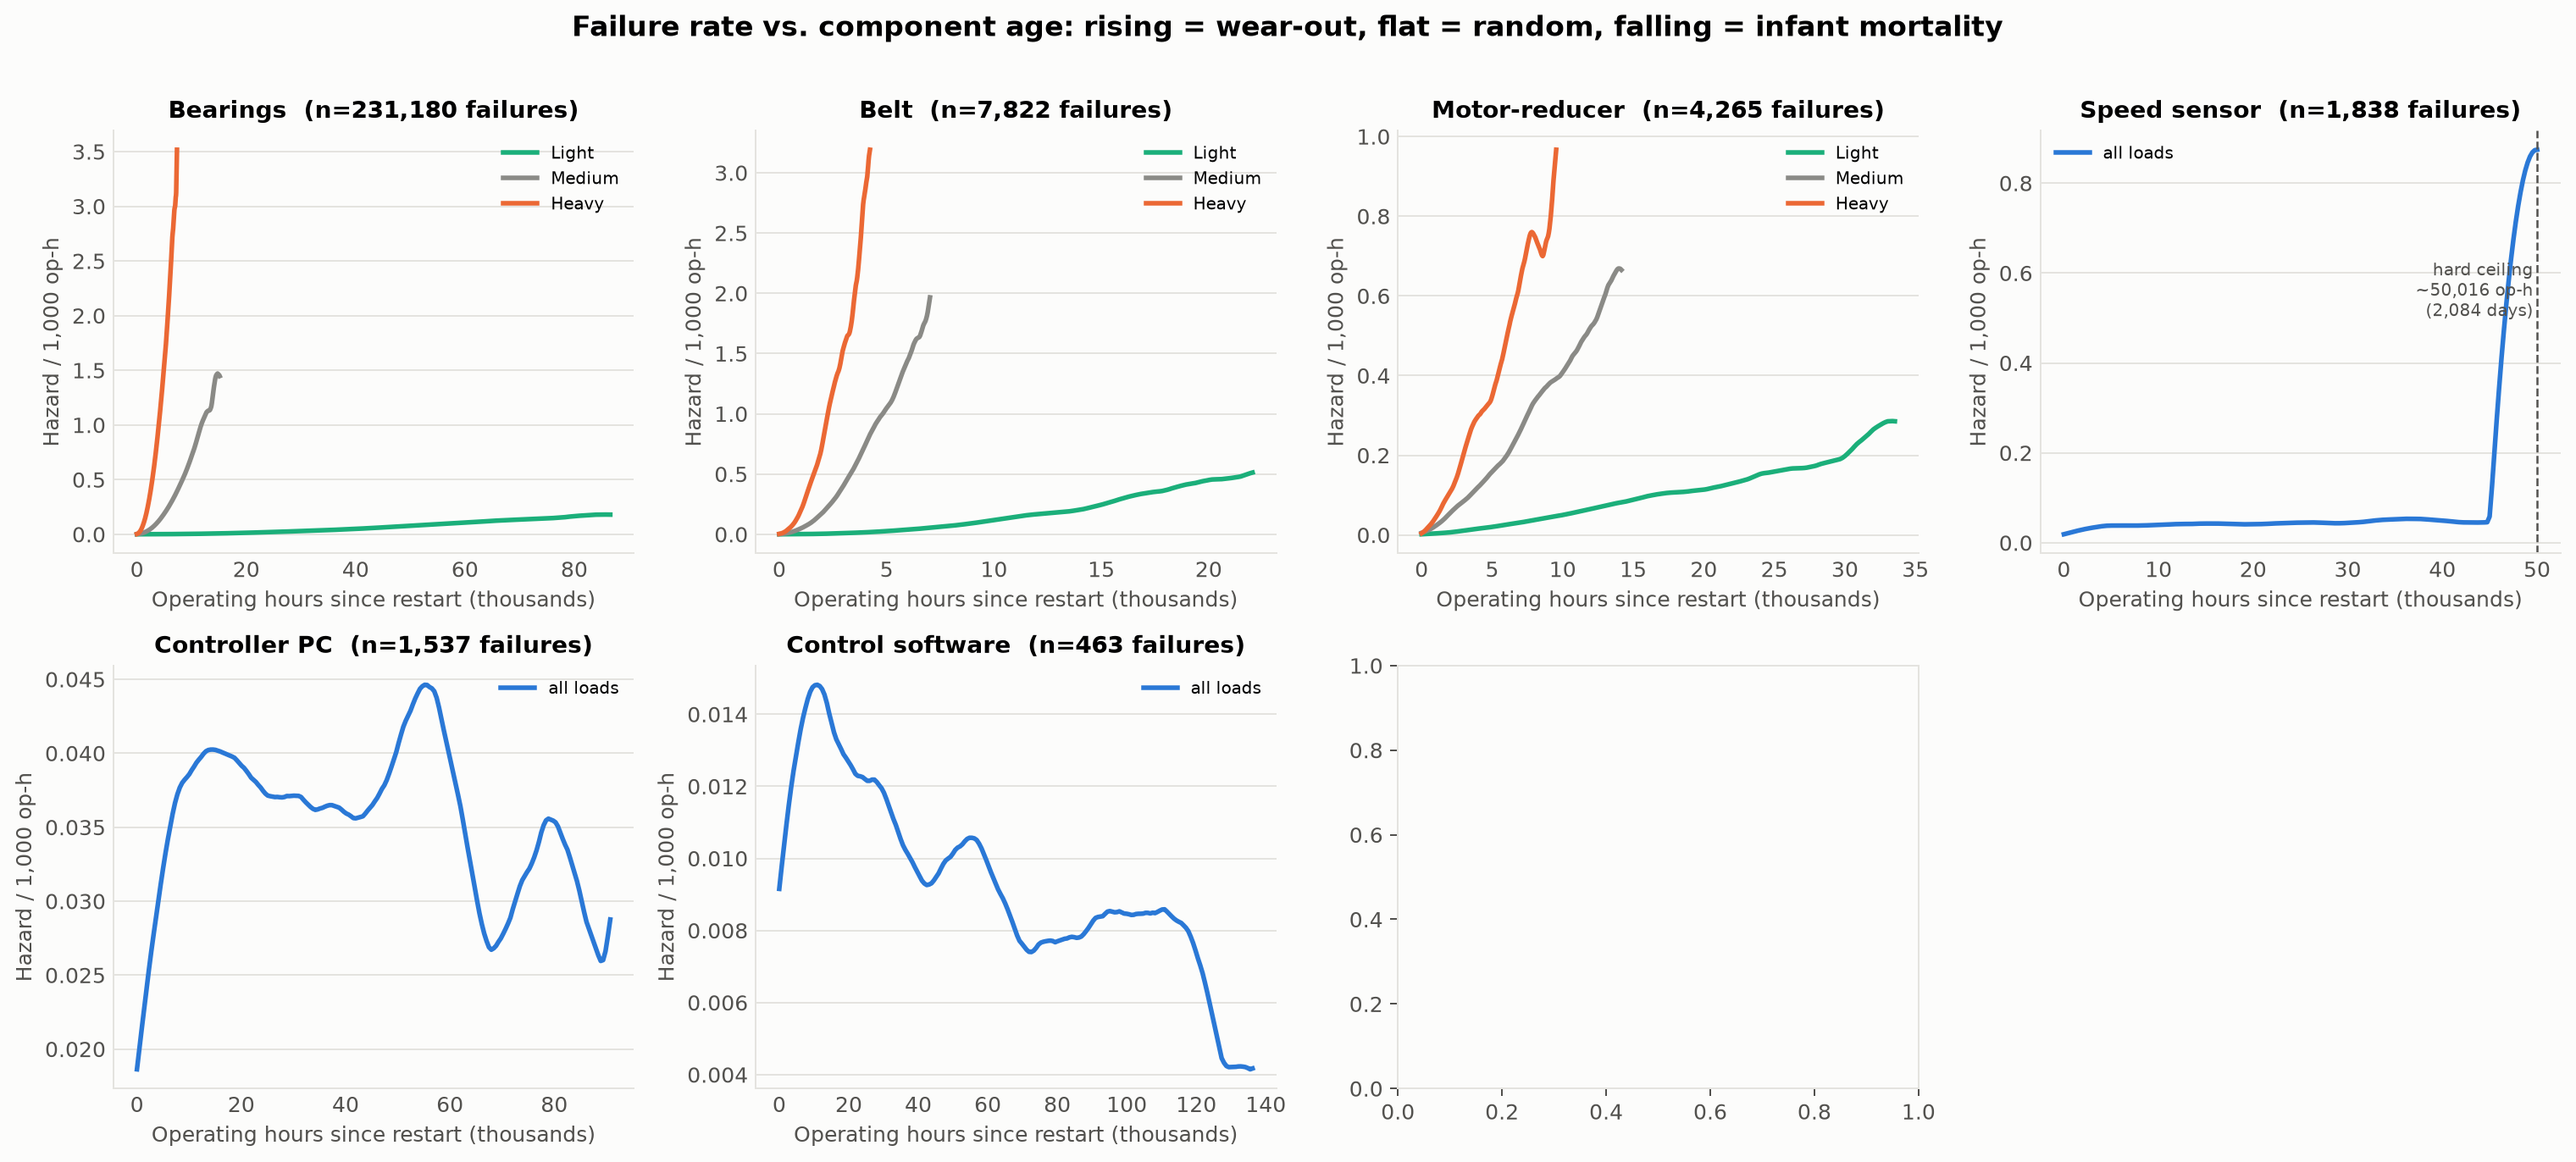
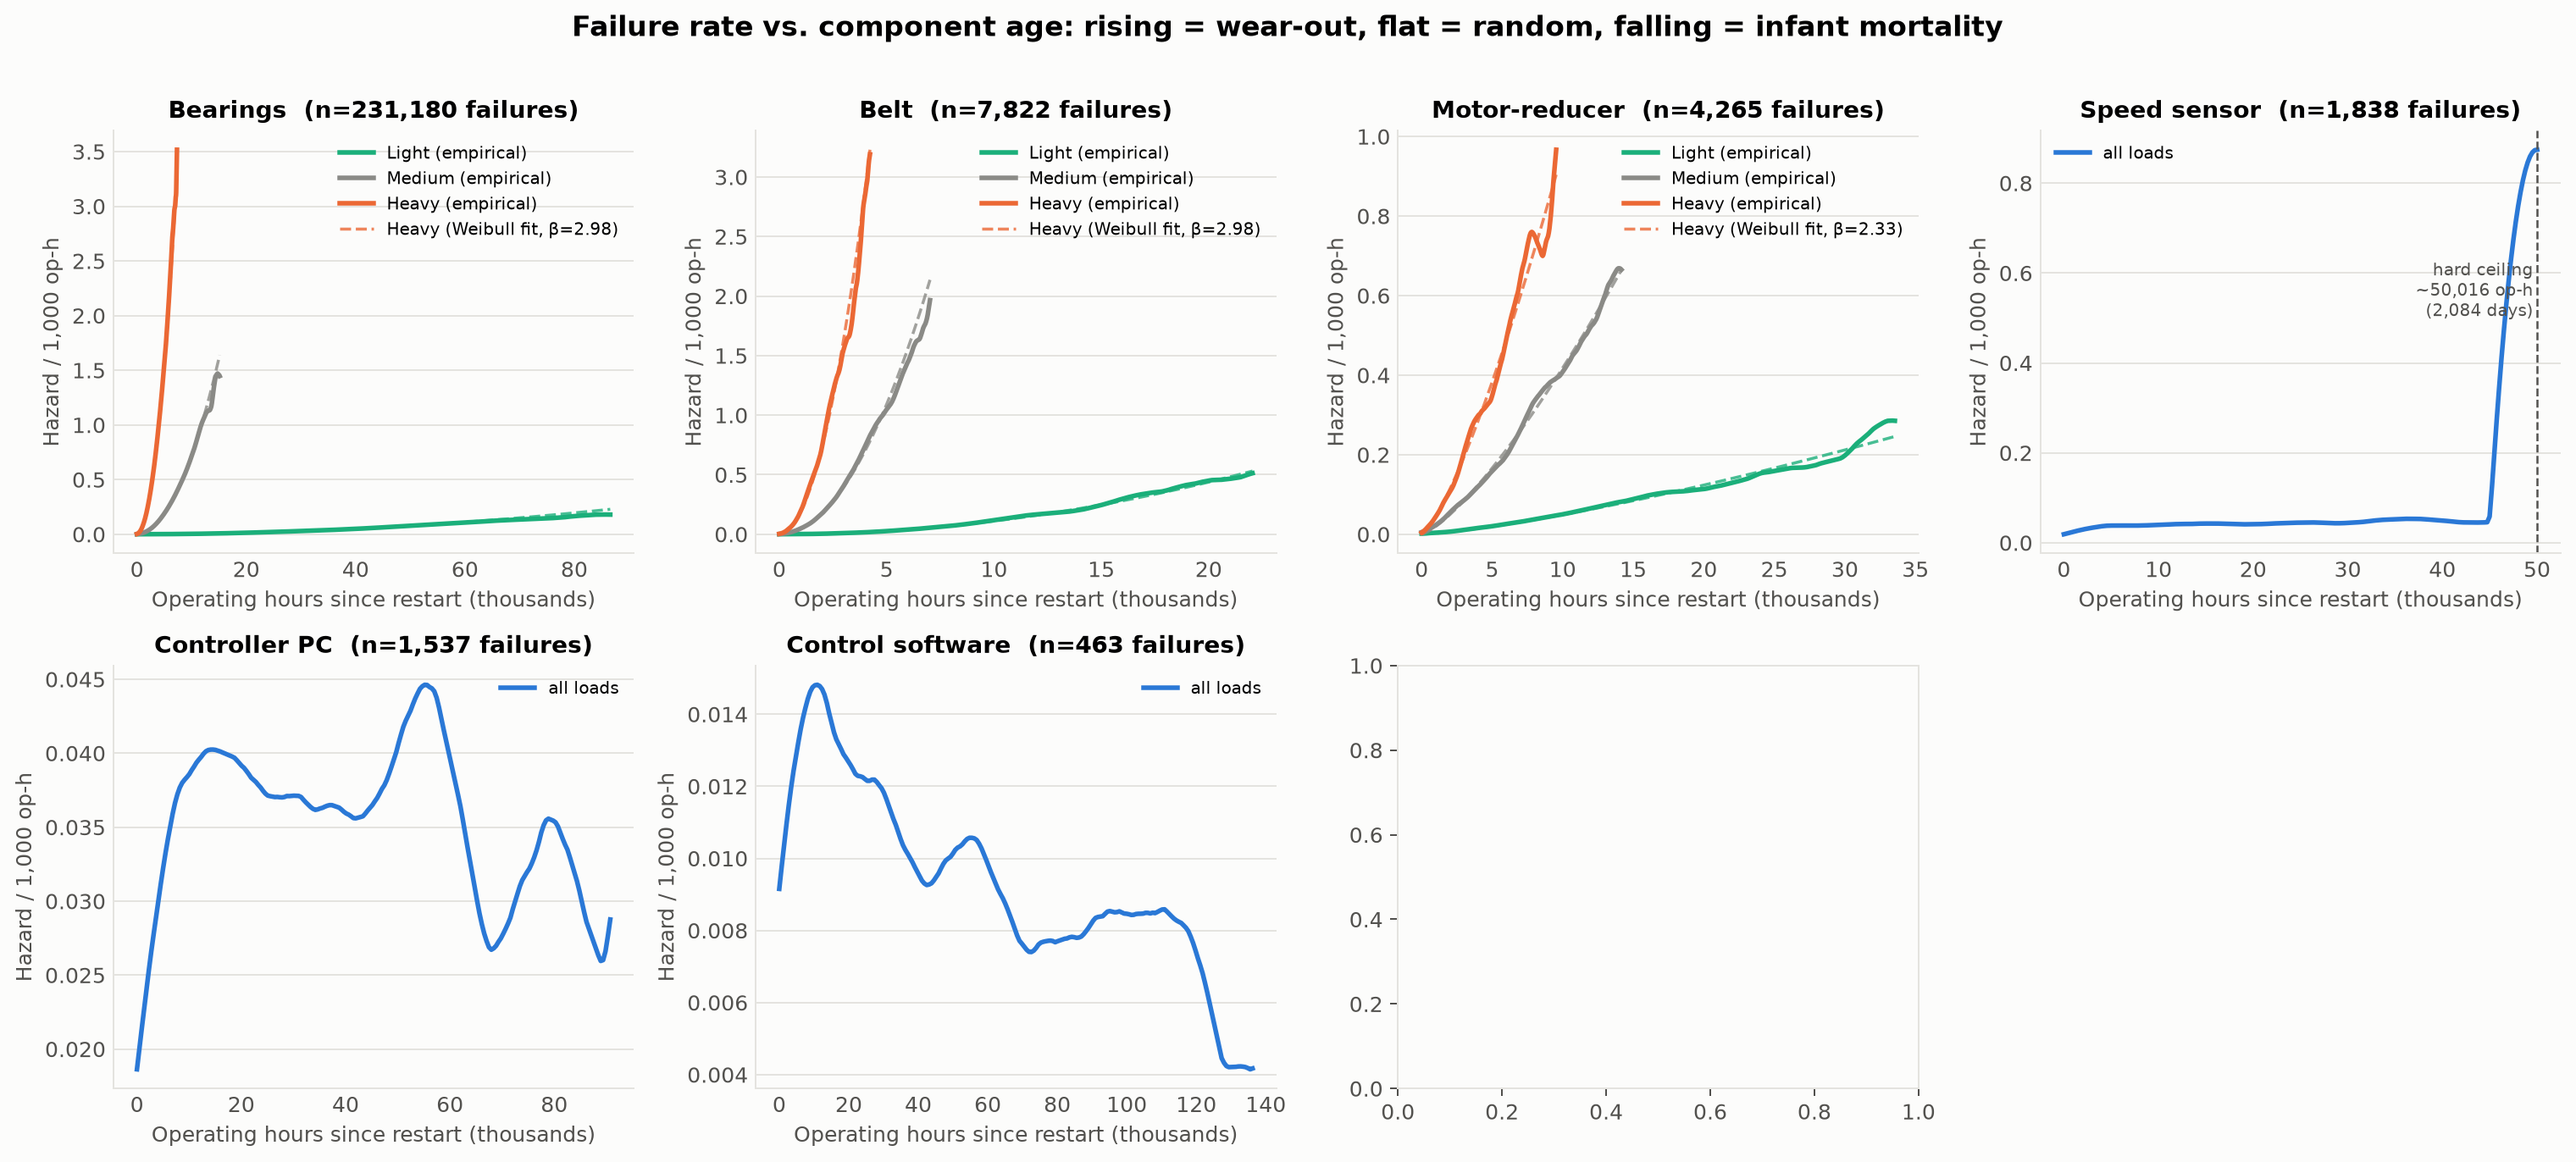
Overlay independent Weibull cross-check on hazard-vs-age curves
Asked directly whether the corrected plot is actually right, after two prior
bugs in it. Overlaid the parametric Weibull hazard (beta/eta from
weibull_by_clock.csv, an MLE fit with no smoothing or boundary bias at all)
on the empirical Nelson-Aalen curves for Heavy. A Weibull with beta>1 is
mathematically strictly increasing, so it cannot produce a peak-then-decline
by construction -- it tracks the empirical curve closely for all three
load-split components, giving an independent confirmation that doesn't rely
on the same estimation method being right twice.

diff --git a/analysis/reliability_over_time/plot_hazard_vs_age.py b/analysis/reliability_over_time/plot_hazard_vs_age.py
@@ -68,6 +68,25 @@ def smoothed_curve(df, cap):
     return np.interp(timeline, extended, y_ext), timeline
 
 
+def weibull_params(comp):
+    """beta and eta per load class from outputs/req1/weibull_by_clock.csv (op_h clock,
+    all intervals) -- an MLE fit, completely independent of the Nelson-Aalen smoothing
+    used elsewhere in this script. Used as a cross-check: a Weibull hazard with
+    beta > 1 is mathematically strictly increasing (h(t) = (beta/eta)*(t/eta)^(beta-1),
+    and beta-1 > 0), so it CANNOT produce a peak-then-decline. If it tracks the
+    empirical curve, that's strong evidence the empirical curve's shape is real."""
+    w = pd.read_csv(IN / "weibull_by_clock.csv")
+    row = w[(w.component == comp) & (w.intervals == "all") & (w.clock == "op_h")].iloc[0]
+    beta = row["beta"]
+    eta = {"Light": row["eta_Light"], "Medium": row["eta_Light"] * row["eta_Medium/Light"],
+           "Heavy": row["eta_Light"] * row["eta_Heavy/Light"]}
+    return beta, eta
+
+
+def weibull_hazard(t, beta, eta):
+    return (beta / eta) * (np.maximum(t, 1e-6) / eta) ** (beta - 1)
+
+
 def main():
     fig, axes = plt.subplots(2, 4, figsize=(17, 7.5))
     axes = axes.flatten()
@@ -82,13 +101,17 @@ def main():
             # bearings never exceed 8,028 op-h fleet-wide, Medium never exceed 18,300 --
             # producing a flat tail that reflects "no data left," not a real hazard
             # plateau. Caught when asked what the flat Heavy/Medium tail meant.
+            beta, eta = weibull_params(comp)
             for load in ["Light", "Medium", "Heavy"]:
                 d = iv[iv.load == load]
                 if d.event.sum() < 20:
                     continue
                 cap = cap_for(d)
                 y, x = smoothed_curve(d, cap)
-                ax.plot(x / 1000, y * 1000, color=LOAD_COLOR[load], lw=2.2, label=load)
+                ax.plot(x / 1000, y * 1000, color=LOAD_COLOR[load], lw=2.2, label=f"{load} (empirical)")
+                ax.plot(x / 1000, weibull_hazard(x, beta, eta[load]) * 1000, color=LOAD_COLOR[load],
+                        lw=1.4, ls="--", alpha=0.8,
+                        label=f"{load} (Weibull fit, β={beta:.2f})" if load == "Heavy" else None)
                 rows_out.append(pd.DataFrame({"component": comp, "load": load, "op_h": x, "hazard_per_op_h": y}))
         else:
             cap = cap_for(iv)

diff --git a/analysis/reliability_over_time/reliability_over_time_findings.md b/analysis/reliability_over_time/reliability_over_time_findings.md
@@ -61,6 +61,19 @@ per component.
   bearings, and not something any smoothing method can safely correct right at the edge
   where only a handful of units remain. The curves now end cleanly where real support
   runs out rather than guessing at that last sliver.
+- **Third, independent cross-check** (asked directly: "are we sure this is correct
+  now?"): overlaid the parametric Weibull hazard curve (β, η from
+  `outputs/req1/weibull_by_clock.csv`, an MLE fit — a completely different method from
+  the Nelson-Aalen smoothing used for the empirical curves, with no smoothing/boundary
+  bias at all) on top of the empirical curves for Heavy, in dashed lines. A Weibull
+  hazard with β>1 is mathematically strictly increasing
+  (h(t)=(β/η)(t/η)^(β-1), β-1>0) — it cannot produce a peak-then-decline by
+  construction. It tracks the empirical curve closely for all three components all the
+  way to the cutoff (Bearing and Belt overlap almost exactly; Motor-Reducer's empirical
+  line has a small real wiggle around 7,000–9,000 op-h that the smooth parametric fit
+  doesn't capture, but the trend still agrees). Two independent methods landing in the
+  same place, with no peak or decline in either, is the strongest confirmation this
+  data can reasonably give that the original peak-then-decline shape was an artifact.
 - **Speed sensor, Controller PC, Control Software** are much flatter overall (β close
   to 1), matching the "near-random"/"random" classification.
 - **Unexpected, real finding: Speed_Sensor has a hard ceiling around 50,016 operating
